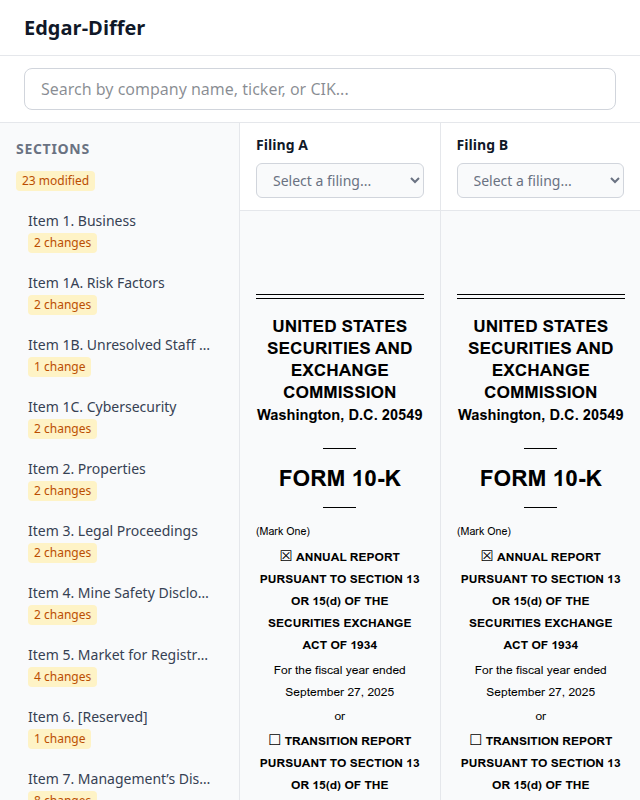
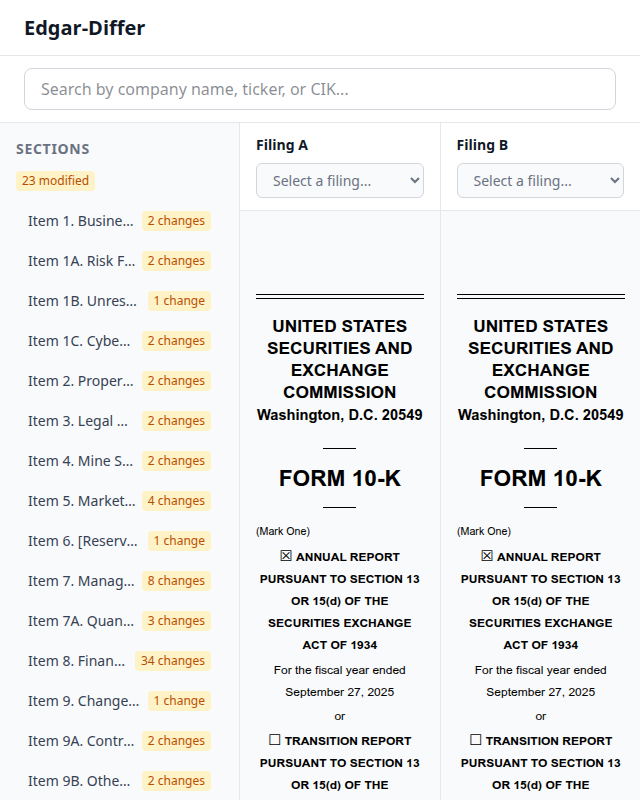
test(US-2.7): re-run UAT after inline badge layout fix
All 7 UAT checks pass in a single run with the updated inline layout.
Badges now appear next to heading text instead of below it. New
screenshots reflect the inline layout at 1280x800 and 640x800 viewports.

Changed region(s): [[0.0312, 0.25, 0.3438, 1.0]]

diff --git a/.specs/us-2-7-change-badges/uat.md b/.specs/us-2-7-change-badges/uat.md
@@ -1,6 +1,6 @@
 # US-2.7: Section Change Badges — UAT Results
 
-**Date:** 2026-03-14
+**Date:** 2026-03-14 (re-run after inline badge layout fix)
 **Viewport:** 1280x800 (default), 640x800 (narrow)
 **Browser:** Chrome via DevTools MCP
 **Result:** ALL CHECKS PASS
@@ -23,11 +23,14 @@
 
 ---
 
-## 2. Change Count Badges — Amber (Modified Sections)
+## 2. Change Count Badges — Inline Layout
 
 **Action:** Inspect each section nav button.
 
 **Verify:**
+- Badges are **inline** next to the heading text (not on a separate line below)
+- Heading text truncates with ellipsis to make room for the badge
+- Badge does not wrap or shrink (`shrink-0` on badge element)
 - Each modified section shows an amber badge with change count
 - Badge text format: "{n} changes" (plural) or "{n} change" (singular)
 - Badge has amber styling (`text-amber-700 bg-amber-100`)
@@ -93,10 +96,10 @@
 **Action:** Scroll the section nav to the bottom.
 
 **Verify:**
-- Badges remain visible on all sections during and after scroll
+- Badges remain inline and visible on all sections during and after scroll
 - Nav scrolls independently from filing panels
 
-![Nav scrolled to bottom showing remaining sections with badges](screenshots/03-nav-scrolled-bottom.png)
+![Nav scrolled to bottom showing remaining sections with inline badges](screenshots/03-nav-scrolled-bottom.png)
 
 **Result:** PASS
 
@@ -108,12 +111,13 @@
 
 **Verify:**
 - Layout doesn't break
-- Section nav still visible with badges
+- Section nav still visible with inline badges
+- Heading text truncates further at narrow width; badges remain visible
 - No horizontal scrollbar
 - Summary bar still visible
 - All three columns still visible
 
-![Narrow viewport showing badges](screenshots/02-narrow-viewport-640x800.png)
+![Narrow viewport showing inline badges](screenshots/02-narrow-viewport-640x800.png)
 
 **Result:** PASS
 
@@ -128,7 +132,7 @@
 - Each badge has `aria-label` matching badge text (e.g., "2 changes", "1 change")
 - Navigation landmark is present with `aria-labelledby`
 
-**Observed:** Accessibility tree confirms all ARIA attributes present and correct.
+**Observed:** Accessibility tree confirms all ARIA attributes present and correct after layout change.
 
 **Result:** PASS
 
@@ -139,7 +143,7 @@
 | Check | Status |
 |-------|--------|
 | Diff summary bar renders with correct counts | PASS |
-| Amber change count badges on modified sections | PASS |
+| Inline badges next to heading text | PASS |
 | Singular/plural badge text | PASS |
 | No console errors | PASS |
 | Badges visible after scroll | PASS |
@@ -154,3 +158,4 @@
 
 - All sections in the sample data are `changeType='modified'`, so green ("Added") and red ("Removed") text badges are not visible in this UAT. Those badge types are verified by unit tests (SN-U14, SN-U15, SN-U18, SN-U19, SN-U28, SN-U29) and will appear when real diff data includes added/removed sections.
 - The diff summary bar only shows "23 modified" because all sample sections have the same changeType. The zero-count category suppression is verified by unit test SN-U45.
+- Badge layout was updated from block (below heading) to inline (next to heading) per PR feedback. Uses `flex items-center gap-1.5` with `truncate` on heading and `shrink-0` on badge.
